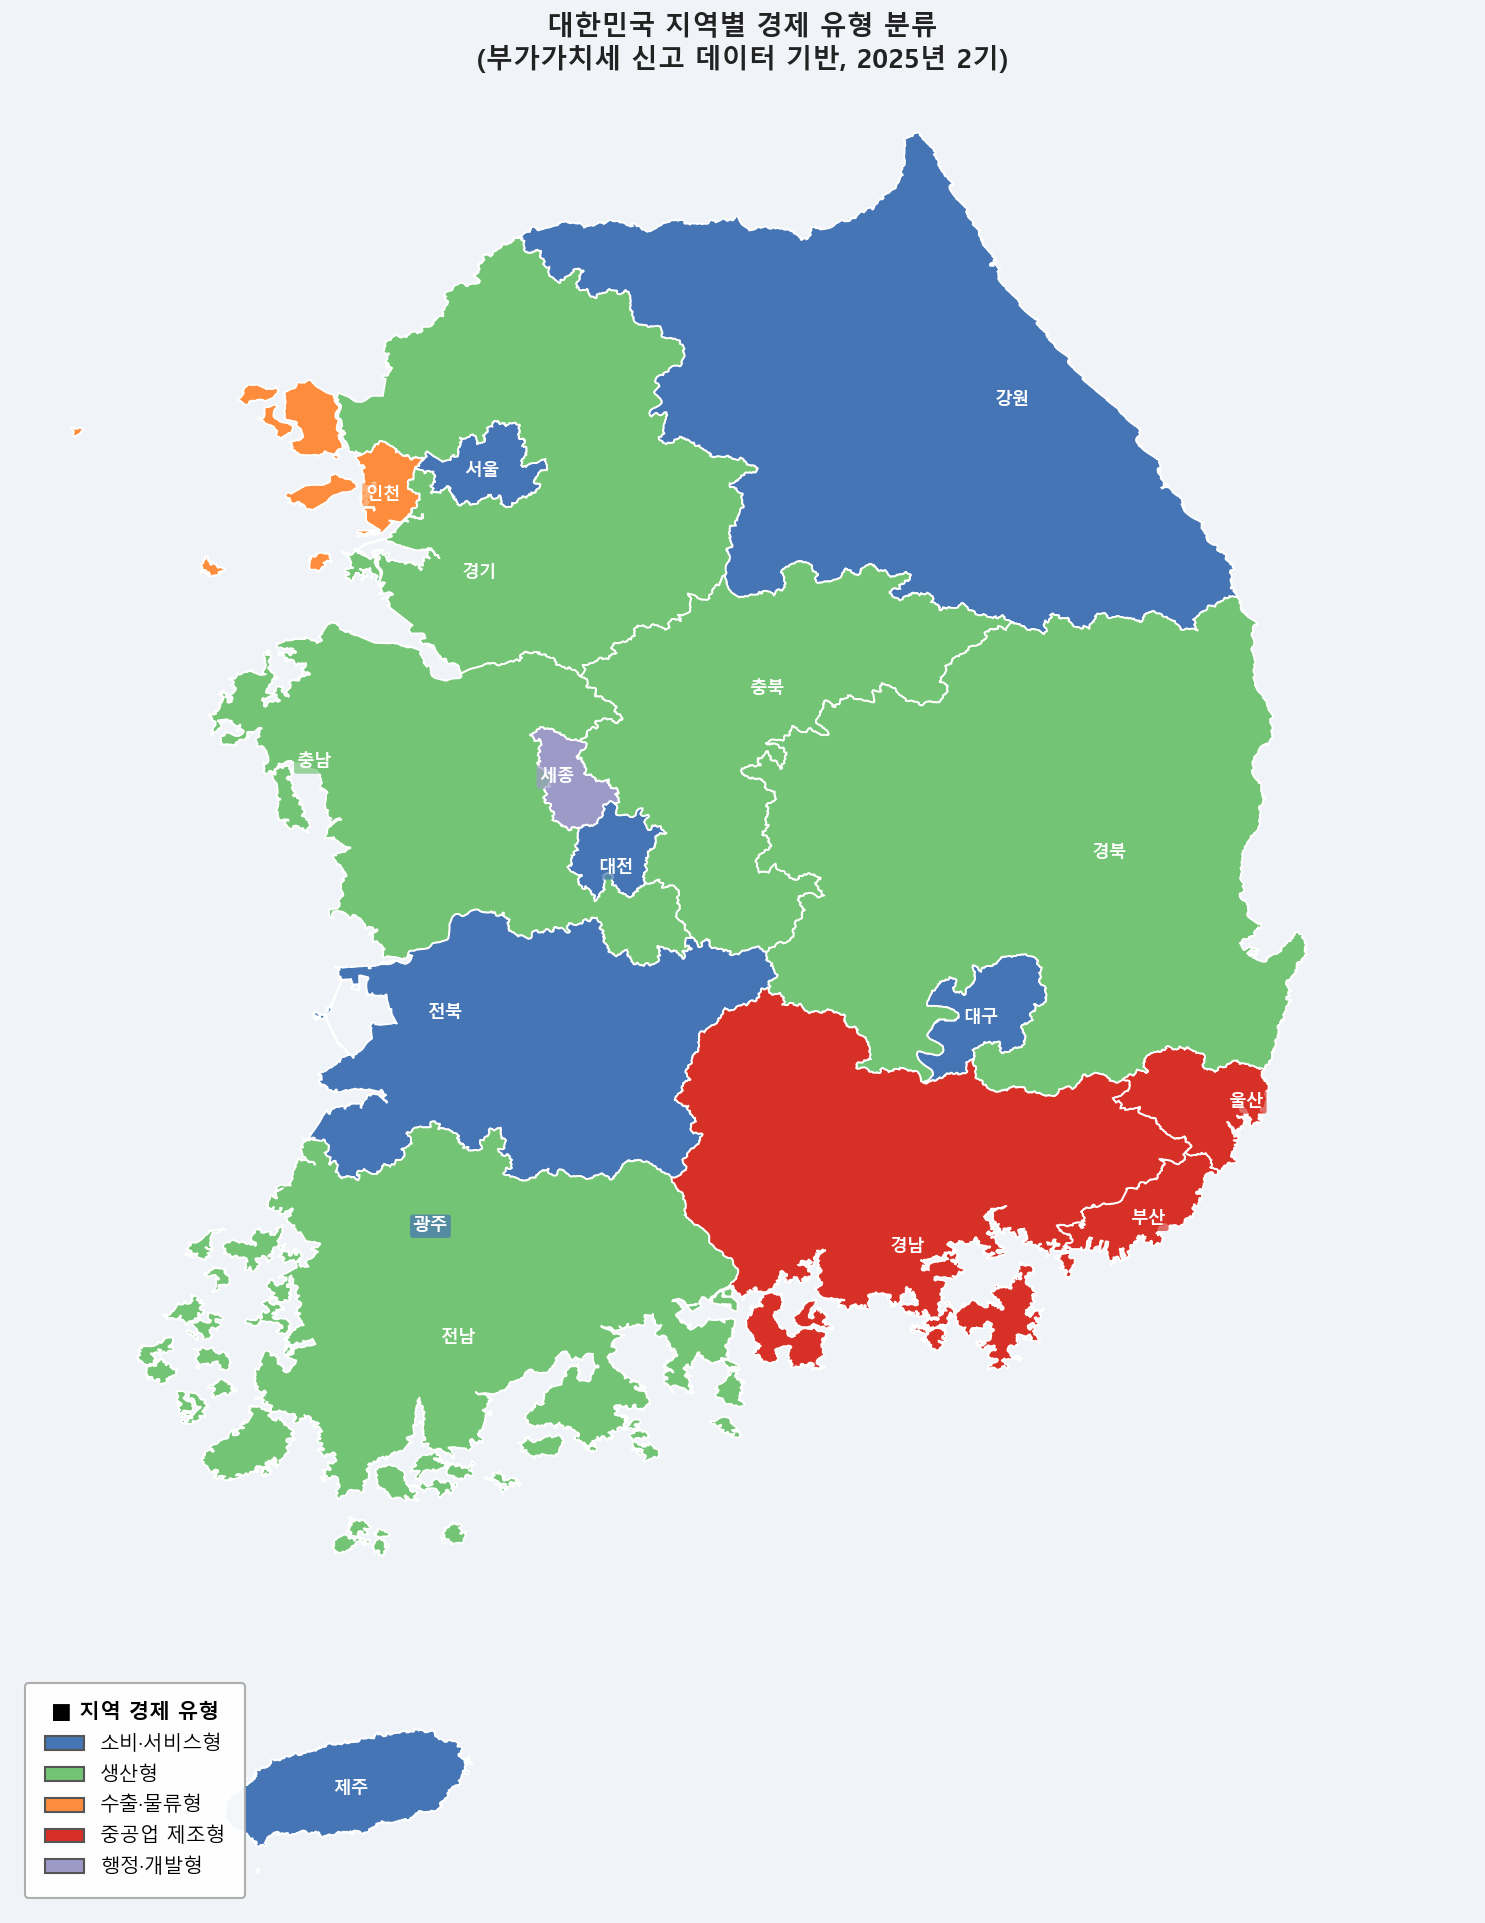
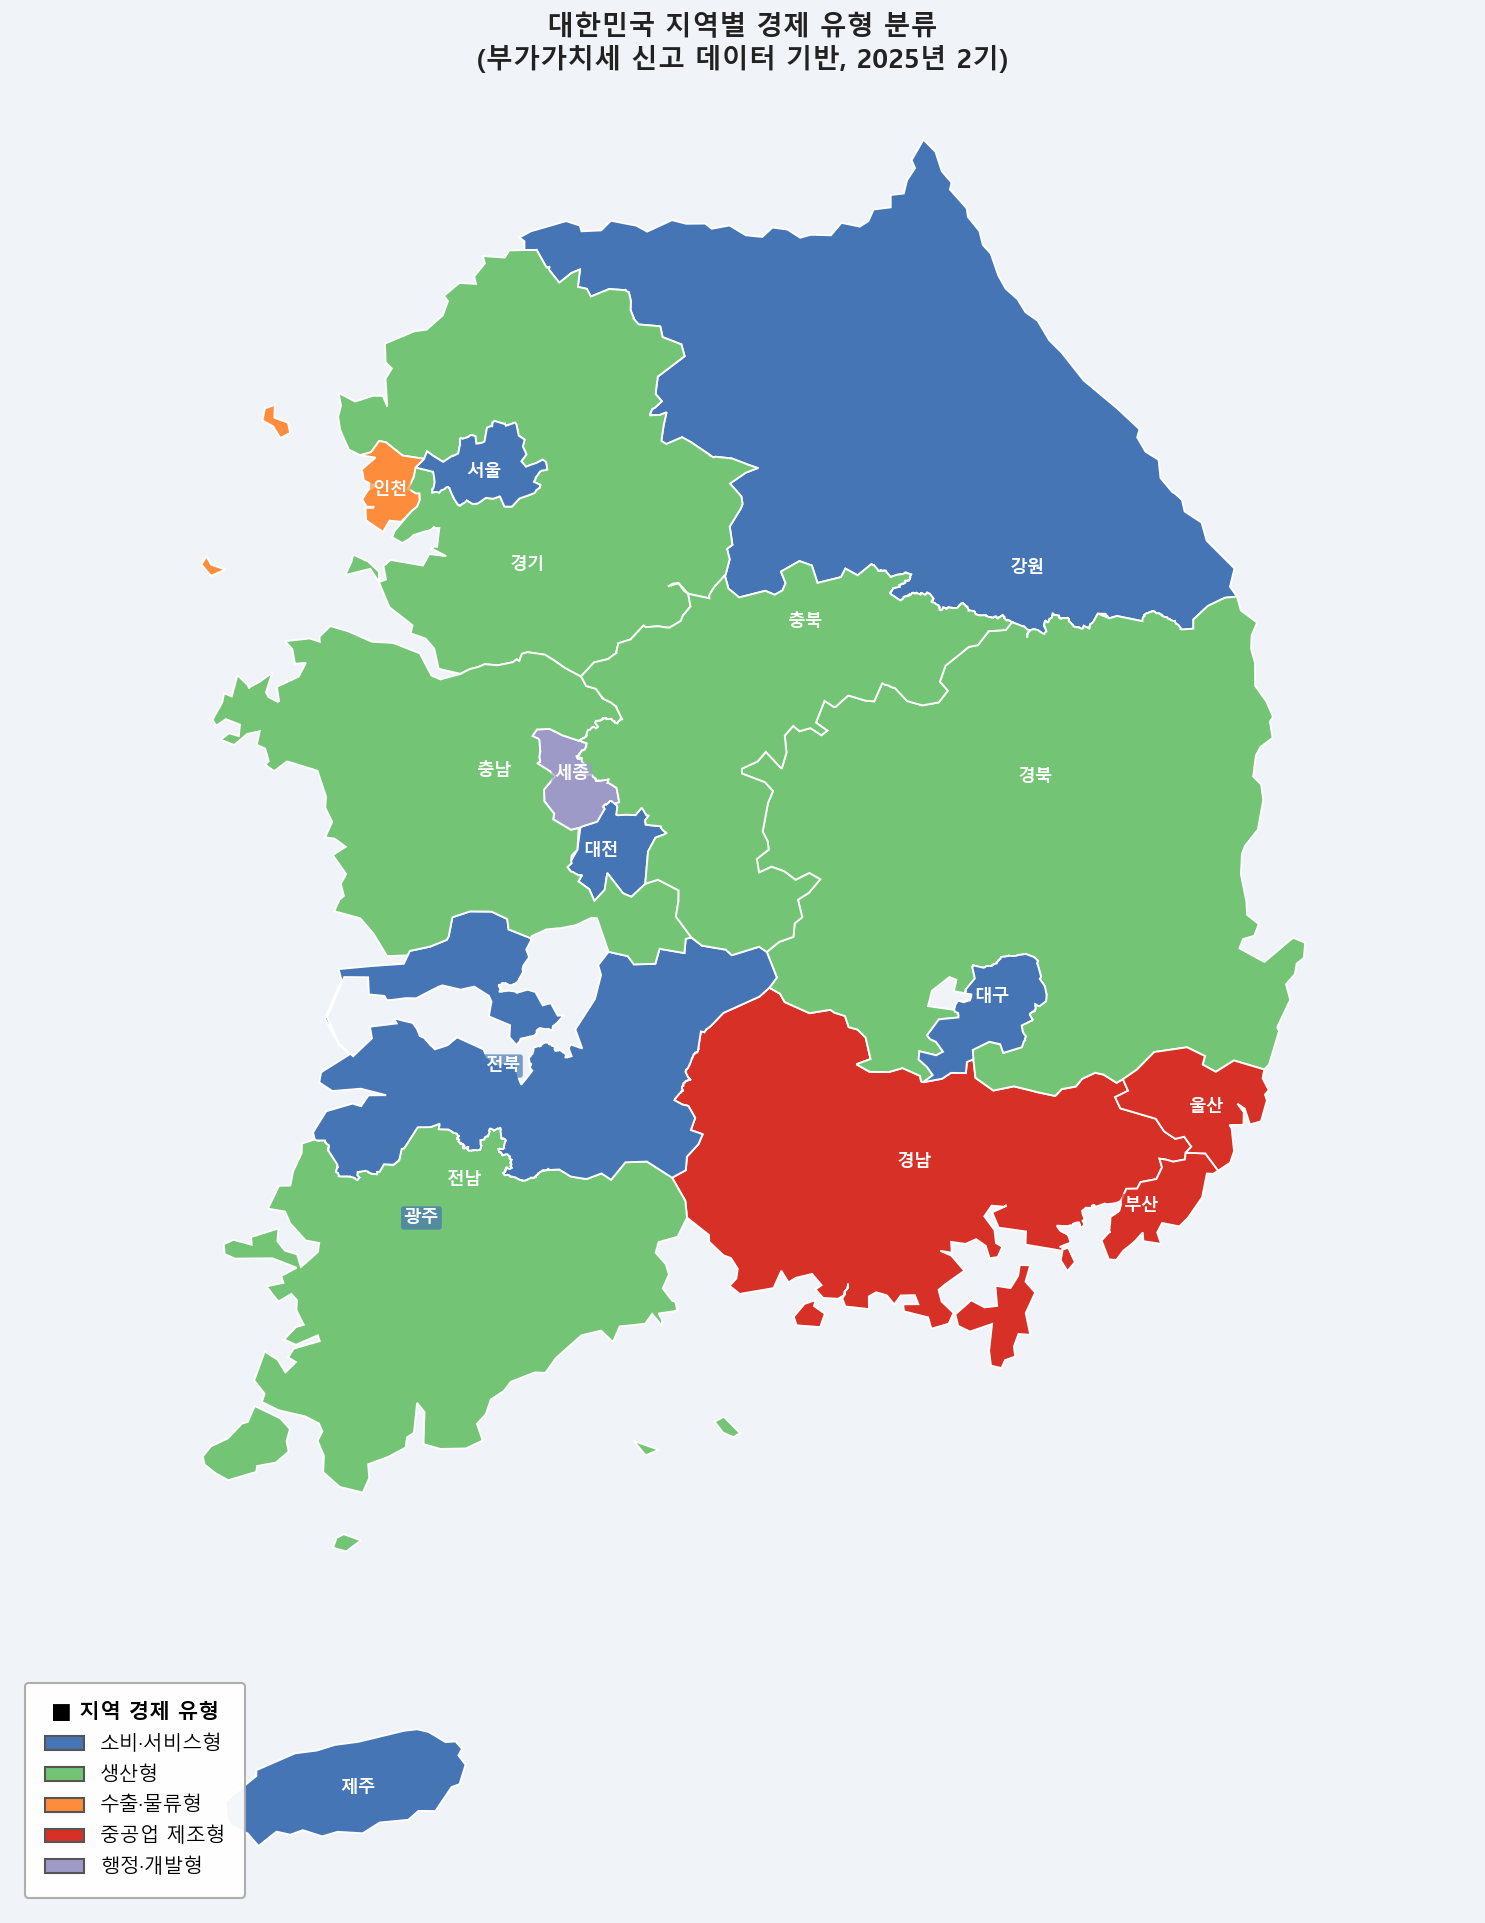
Add Korea administrative boundary GeoJSON and fix map path
- Add district.json (시군구) and korea_provinces.json (시도, dissolved)
- Update map_visualization.py to load GeoJSON from data/raw/ instead of Temp

diff --git a/scripts/map_visualization.py b/scripts/map_visualization.py
@@ -10,7 +10,7 @@ plt.rcParams['font.family'] = 'Malgun Gothic'
 plt.rcParams['axes.unicode_minus'] = False
 
 BASE_DIR = Path(__file__).parent.parent
-GEO_PATH = r'C:\Users\USER\AppData\Local\Temp\korea_provinces.json'
+GEO_PATH = BASE_DIR / 'data' / 'raw' / 'korea_provinces.json'
 CSV_PATH = BASE_DIR / 'data' / 'output' / 'region_final_analysis.csv'
 OUT_PATH = BASE_DIR / 'charts' / 'chart4_korea_map.png'
 